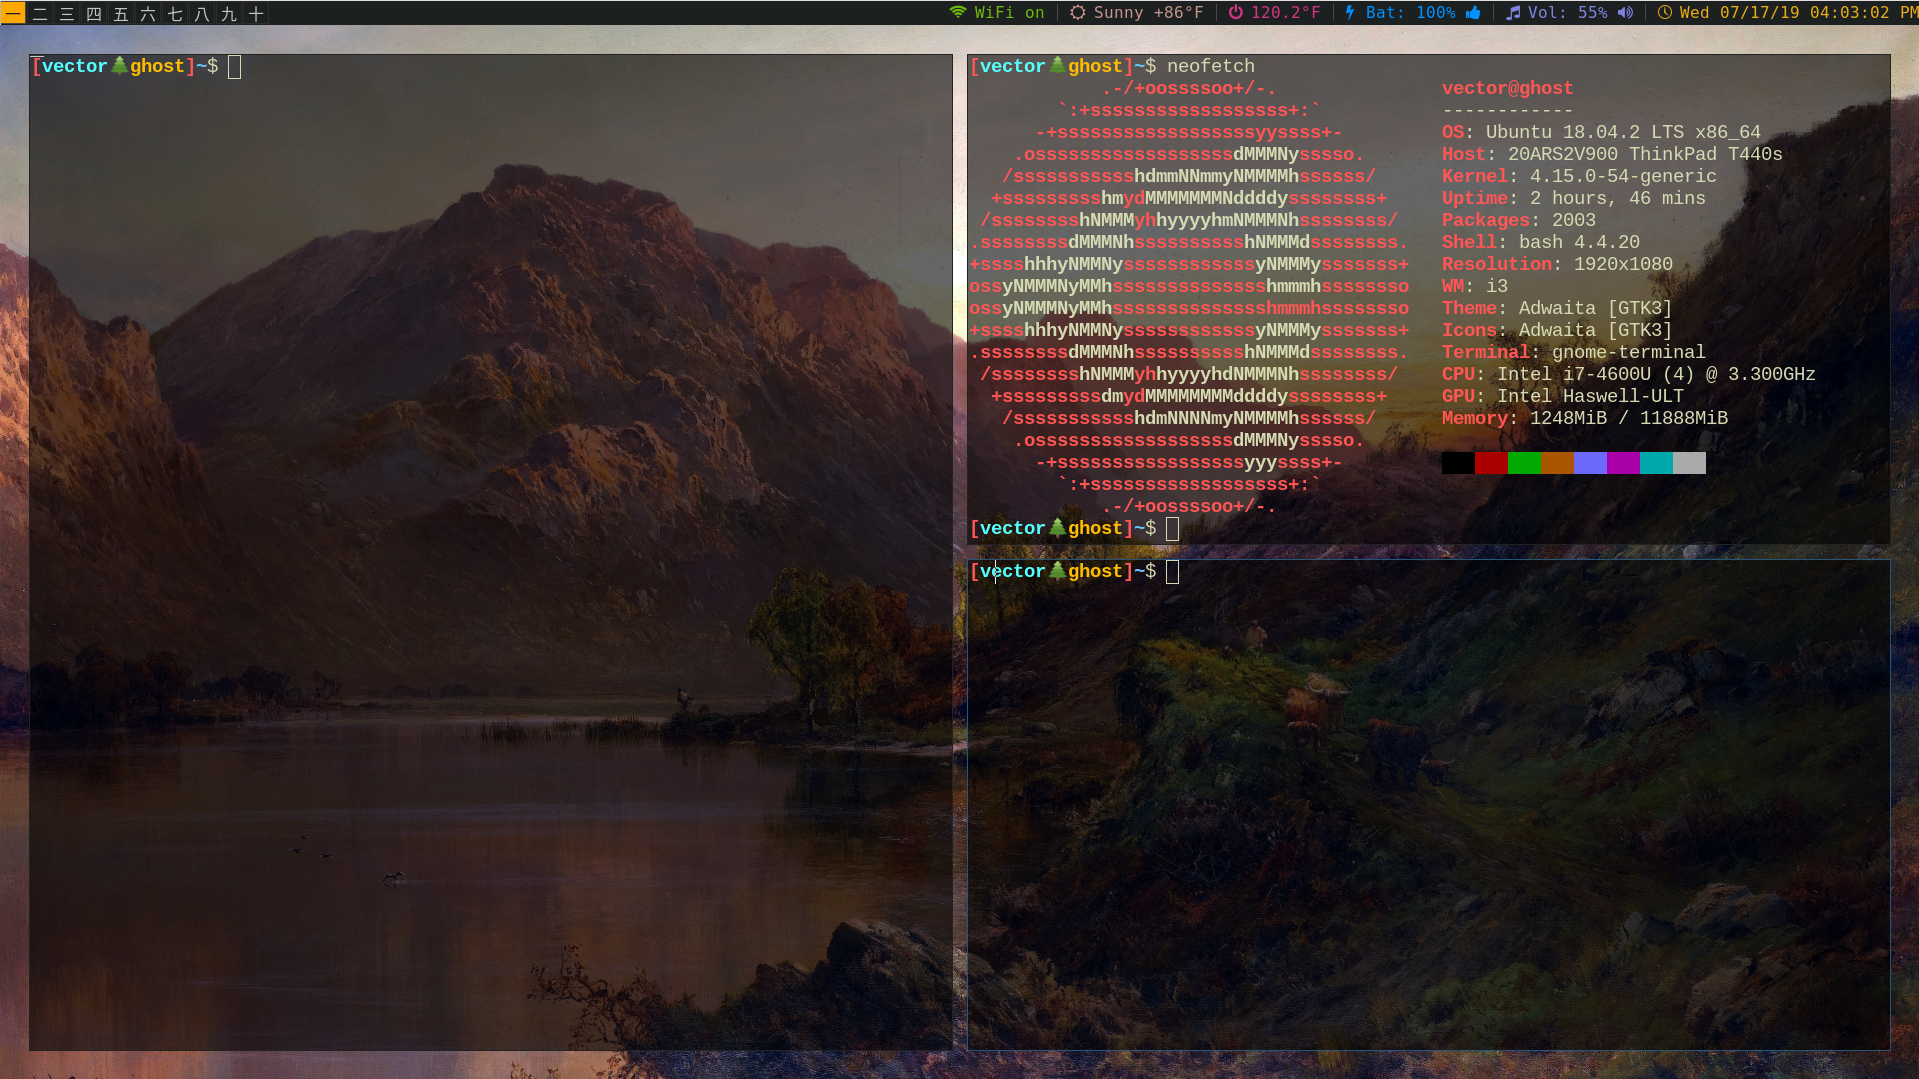
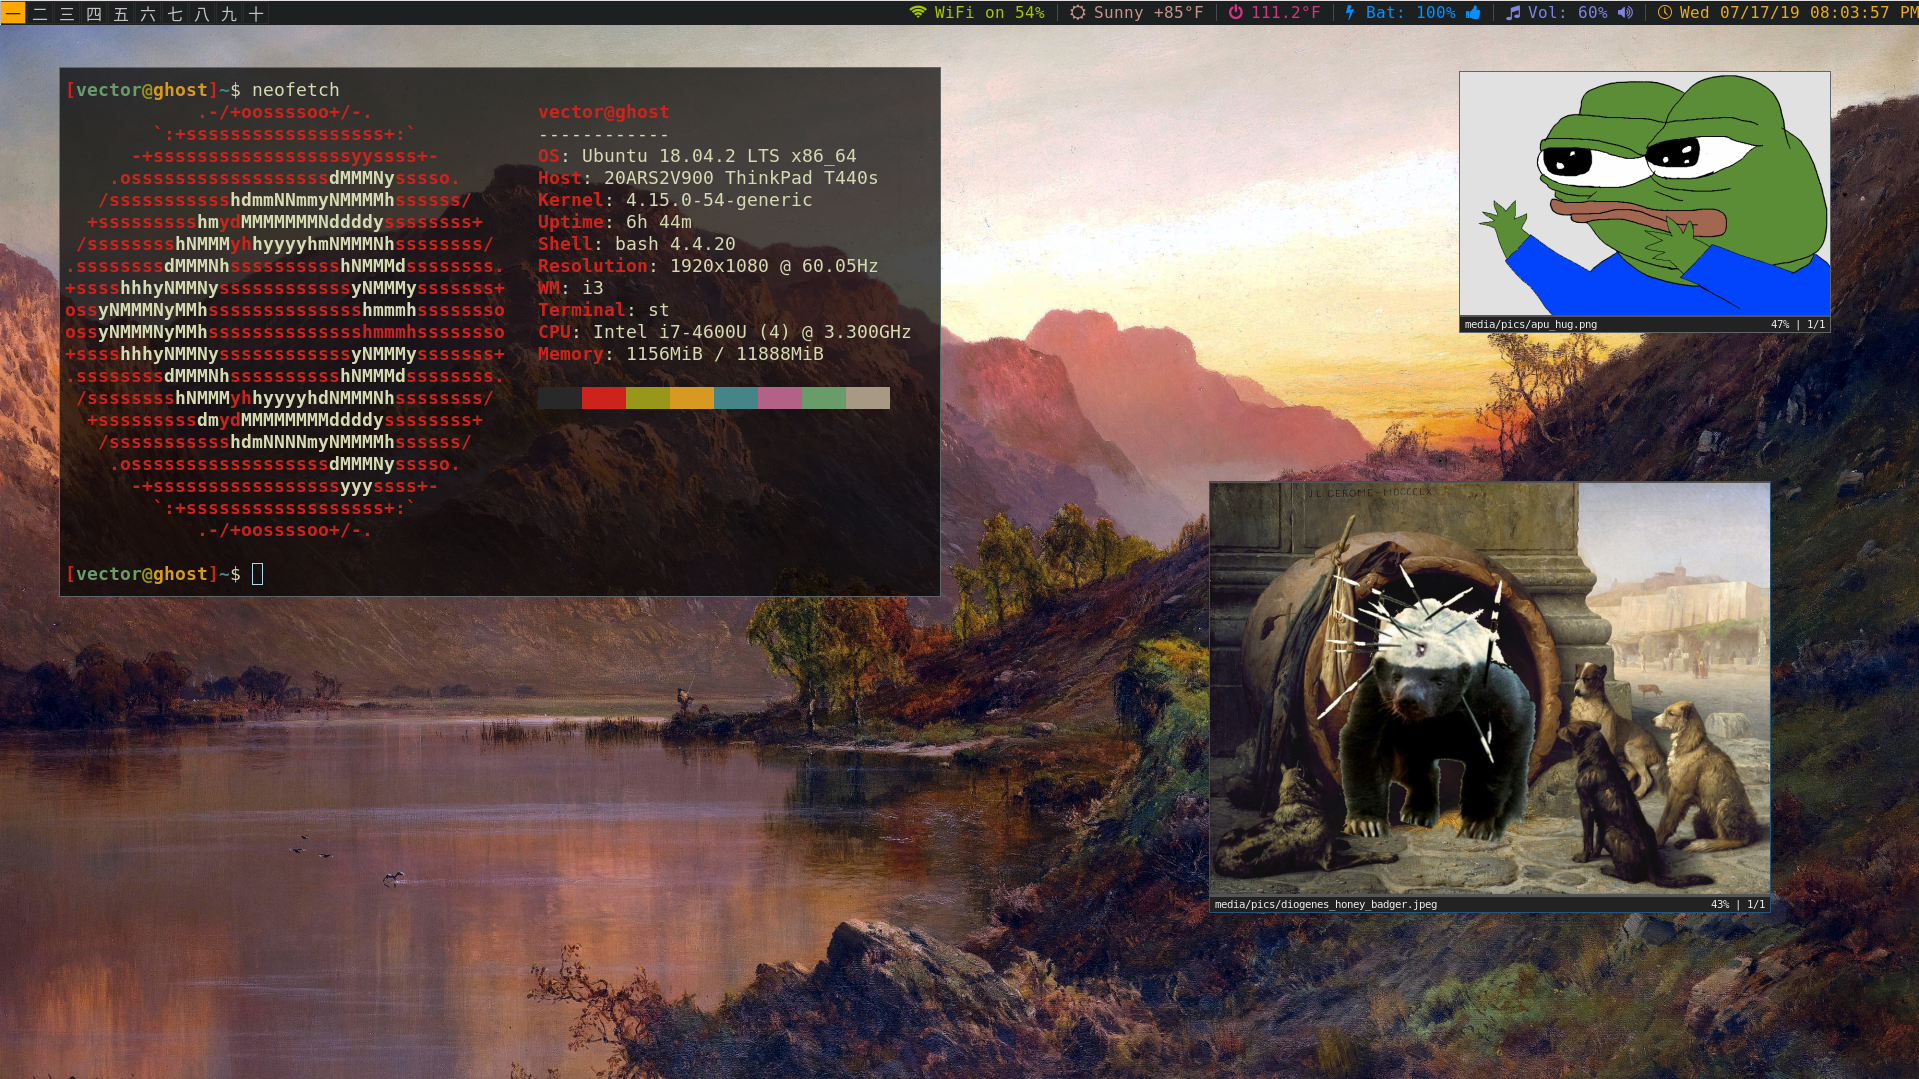
updated image/readme with st as terminal emulator

diff --git a/README.md b/README.md
@@ -1,2 +1,5 @@
 # dotfiles
 ![i3blocks](img/pic.png)
+
+Terminal emulator: [suckless terminal (st)](https://st.suckless.org/) with configurations from [Luke Smith](https://github.com/LukeSmithxyz/st) w/ personal preferences for colors/transparency.
+
